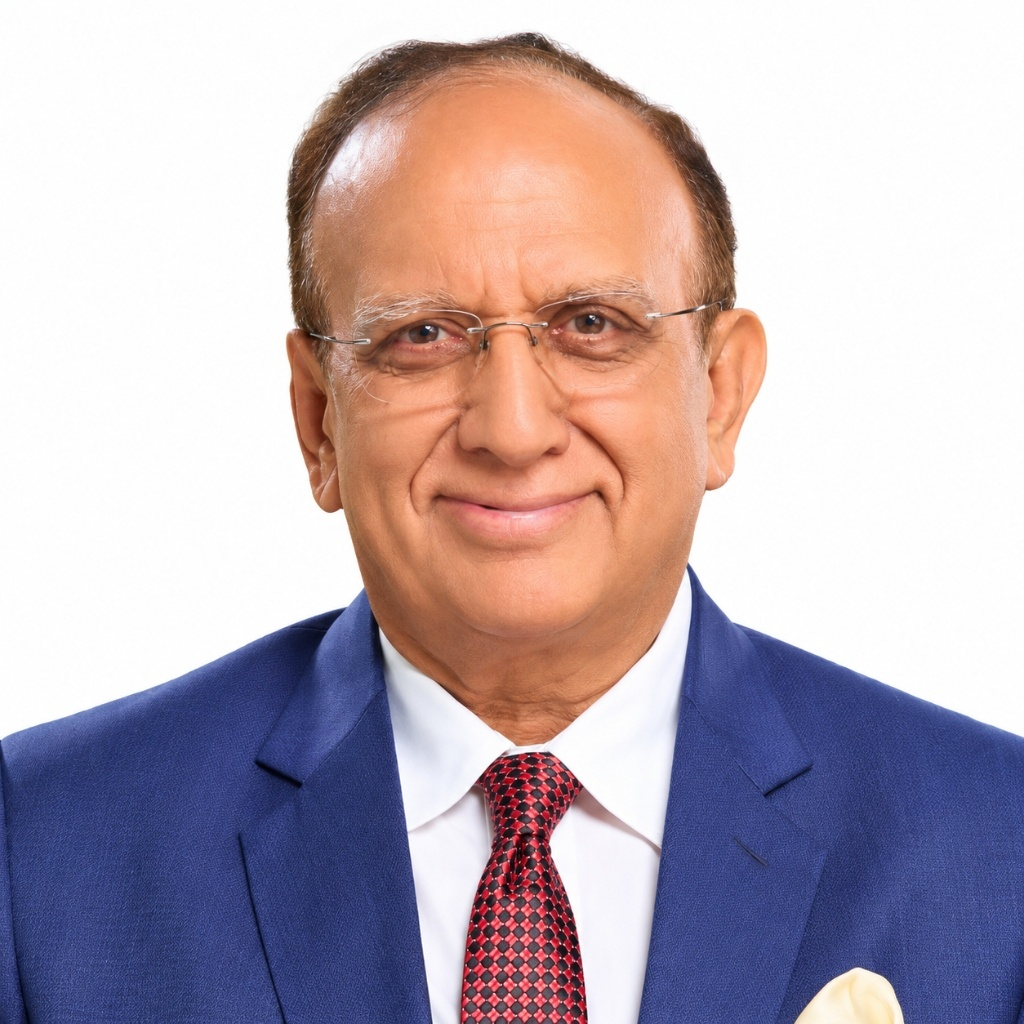
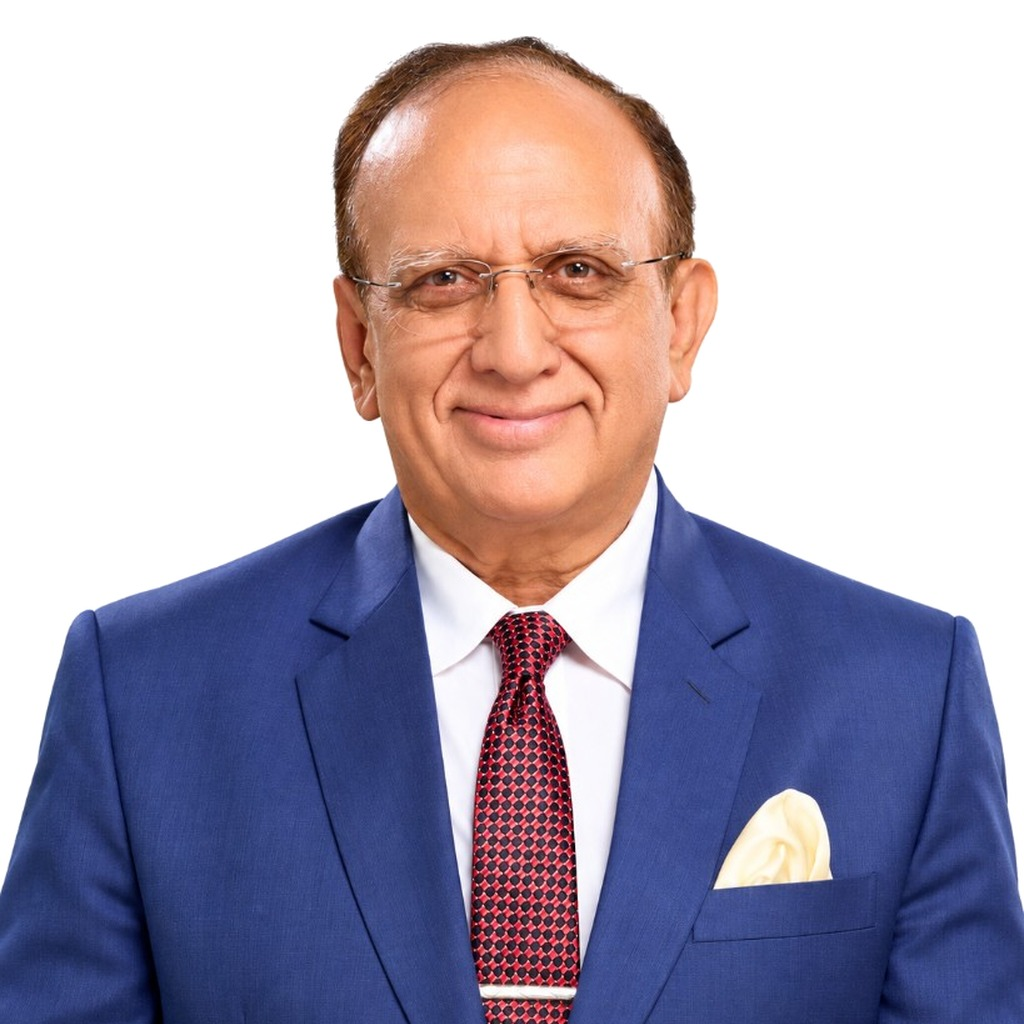
Update leadership headshots, media story dates, and the Vizag coming-soon image.

diff --git a/src/pages/leadership.css b/src/pages/leadership.css
@@ -238,7 +238,7 @@
 .ld-photo--harsha img,
 .ld-profile-img--harsha img {
   object-fit: cover !important;
-  object-position: center center !important;
+  object-position: center top !important;
 }
 
 .ld-card:hover .ld-photo--harsha img {
@@ -248,7 +248,7 @@
 .ld-photo--sankar-rao img,
 .ld-profile-img--sankar-rao img {
   object-fit: cover !important;
-  object-position: center center !important;
+  object-position: center top !important;
 }
 
 .ld-card:hover .ld-photo--sankar-rao img {
@@ -258,7 +258,7 @@
 .ld-photo--arun-sawhney img,
 .ld-profile-img--arun-sawhney img {
   object-fit: cover !important;
-  object-position: center center !important;
+  object-position: center top !important;
 }
 
 .ld-card:hover .ld-photo--arun-sawhney img {
@@ -278,33 +278,41 @@
 .ld-photo--sucharita-palepu img,
 .ld-profile-img--sucharita-palepu img {
   object-fit: cover !important;
-  object-position: center 8% !important;
+  object-position: center top !important;
 }
 
 .ld-card:hover .ld-photo--sucharita-palepu img {
   transform: scale(1.03) !important;
 }
 
+.ld-photo--kapil-mehan,
+.ld-profile-img--kapil-mehan {
+  background: #ffffff !important;
+}
+
 .ld-photo--kapil-mehan img,
-.ld-profile-img--kapil-mehan img {
+.ld-profile-img-frame.ld-profile-img--kapil-mehan img {
   object-fit: cover !important;
-  object-position: center center !important;
-  transform: scale(0.92);
-  transform-origin: center center;
+  object-position: center top !important;
 }
 
 .ld-card:hover .ld-photo--kapil-mehan img {
-  transform: scale(0.95) !important;
+  transform: none !important;
+}
+
+.ld-photo--rajiv-kakodkar,
+.ld-profile-img--rajiv-kakodkar {
+  background: #ffffff !important;
 }
 
 .ld-photo--rajiv-kakodkar img,
-.ld-profile-img--rajiv-kakodkar img {
+.ld-profile-img-frame.ld-profile-img--rajiv-kakodkar img {
   object-fit: cover !important;
-  object-position: center 8% !important;
+  object-position: center top !important;
 }
 
 .ld-card:hover .ld-photo--rajiv-kakodkar img {
-  transform: scale(1.03) !important;
+  transform: none !important;
 }
 
 .ld-photo--sethurathnam-ravi img,
@@ -582,11 +590,18 @@
 
 .ld-profile-name {
   margin: 0;
-  font: 700 clamp(28px, 2.4vw, 42px)/1.15 var(--font-primary, 'Manrope', sans-serif);
+  max-width: 100%;
+  font-family: var(--font-primary, 'Manrope', sans-serif) !important;
+  font-size: clamp(28px, 2.2vw, 40px) !important;
+  font-weight: 700 !important;
+  line-height: 1.2 !important;
+  letter-spacing: -0.3px !important;
   color: #0061f8;
-  letter-spacing: var(--track-page-title, -0.3px);
-  word-break: break-word;
-  overflow-wrap: break-word;
+  white-space: normal !important;
+  overflow: visible !important;
+  text-overflow: unset !important;
+  word-break: normal;
+  overflow-wrap: anywhere;
 }
 
 .ld-profile-role {

diff --git a/src/pages/SennTidesPage.tsx b/src/pages/SennTidesPage.tsx
@@ -230,7 +230,7 @@ const FOOTPRINT_LIST = [
     country: 'India',
     location: 'Vizag',
     details: 'Large-scale peptide manufacturing facility under development, with completion expected by December 2027.',
-    image: '/assets/facilities/vizag-unit5.webp',
+    image: '/assets/peptides/vizag-coming-soon.jpg',
     flag: (
       <svg width="22" height="22" viewBox="0 0 512 512" style={{ borderRadius: '6px', flexShrink: 0 }}>
         <rect width="512" height="170.7" fill="#ff9933" />
